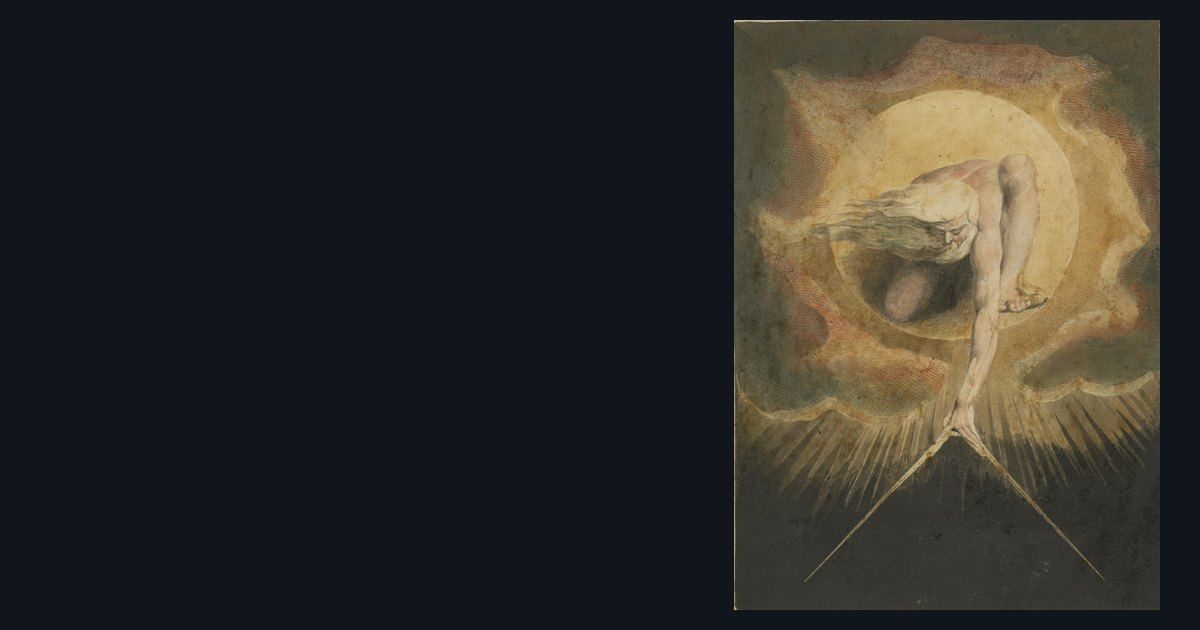
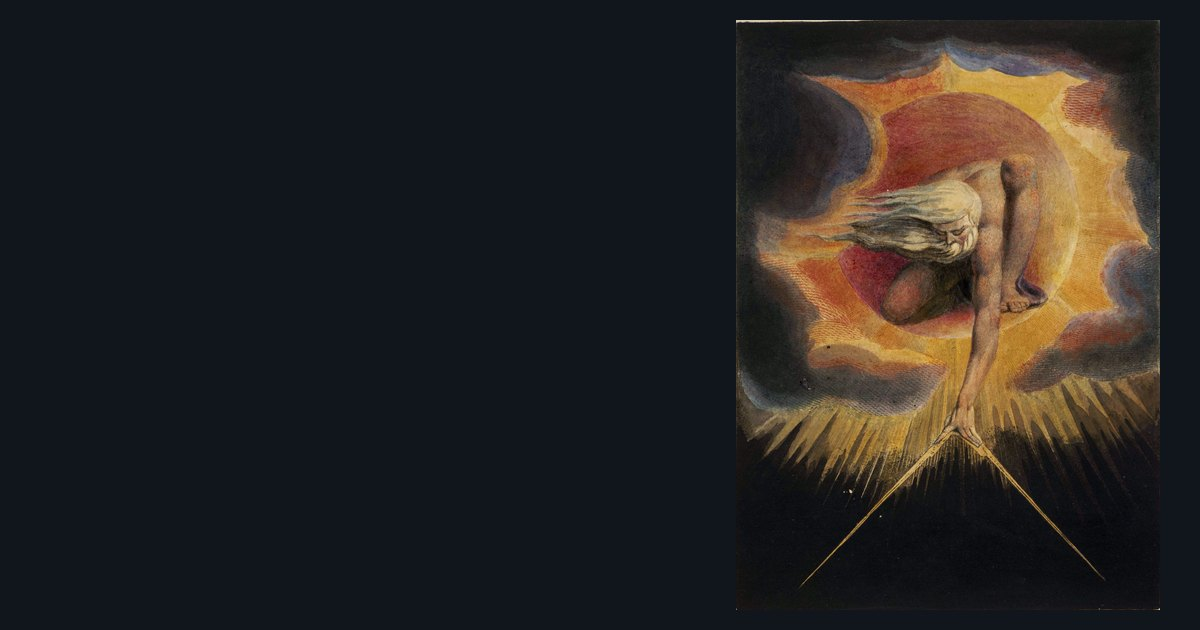
A new plate of The Ancient of Days, with rays and a slow light; contributions to the Albion Rose address
Claude-Session: https://claude.ai/code/session_01Uwzb4iqMdcXLJ8obVakqCr

Changed region(s): [[0.5858, 0.0302, 0.9867, 0.9952]]

diff --git a/index.html b/index.html
@@ -58,9 +58,13 @@ p{margin:0 0 1em;text-wrap:pretty}
 .hero .lead{margin:30px 0 0;font-size:clamp(18px,2vw,21px);line-height:1.55;color:rgba(255,248,230,.86);max-width:30em}
 .count{margin:22px 0 0;color:var(--leaf)}
 .count b{font:400 1.9em/1 var(--fell);letter-spacing:0;color:#fff8e6;margin-right:.3em;vertical-align:-.08em;font-variant-numeric:lining-nums}
-figure.plate{margin:0;justify-self:end;width:min(100%,430px)}
+figure.plate{margin:0;justify-self:end;width:min(100%,470px)}
 .plate .mount{background:#1b1510;padding:10px;box-shadow:0 30px 70px rgba(0,0,0,.55),0 0 0 1px rgba(224,189,98,.38);transform:perspective(1200px) rotateX(var(--rx,0deg)) rotateY(var(--ry,0deg));transition:transform .5s cubic-bezier(.2,.7,.2,1);will-change:transform}
-.plate img{display:block;width:100%;height:auto;aspect-ratio:1530/2118;background:#241d14}
+.plate img{display:block;width:100%;height:auto;aspect-ratio:1432/1988;background:#241d14}
+.plate .mount{position:relative}
+.plate .mount::after{content:"";position:absolute;inset:10px;pointer-events:none;background:radial-gradient(42% 30% at 55% 32%,rgba(255,226,150,.30),rgba(255,226,150,0) 70%);mix-blend-mode:screen;animation:breathe 9s ease-in-out infinite}
+.plate .mount::before{content:"";position:absolute;inset:5px;pointer-events:none;border:1px solid rgba(224,189,98,.55)}
+@keyframes breathe{0%,100%{opacity:.25}50%{opacity:1}}
 .plate figcaption{margin-top:14px;font-size:13px;line-height:1.45;color:rgba(241,223,174,.66)}
 .rise{opacity:0;transform:translateY(14px);animation:rise 1.1s cubic-bezier(.2,.7,.2,1) forwards}
 .rise.d1{animation-delay:.15s}.rise.d2{animation-delay:.35s}.rise.d3{animation-delay:.6s}.rise.d4{animation-delay:.85s}
@@ -132,7 +136,7 @@ footer.awake .wrap{text-shadow:0 1px 7px rgba(16,22,28,.95),0 0 2px rgba(16,22,2
   .sayings li{grid-template-columns:clamp(34px,9vw,56px) minmax(0,1fr)}.sayings li p{grid-column:2}
   .days,.else{grid-template-columns:1fr}
 }
-@media (prefers-reduced-motion:reduce){.rise,.seen{opacity:1;transform:none;animation:none;transition:none}.rule{animation:none}.plate .mount{transition:none;transform:none}html{scroll-behavior:auto}}
+@media (prefers-reduced-motion:reduce){.plate .mount::after{animation:none;opacity:.6}.rise,.seen{opacity:1;transform:none;animation:none;transition:none}.rule{animation:none}.plate .mount{transition:none;transform:none}html{scroll-behavior:auto}}
 </style>
 </head>
 <body>
@@ -151,8 +155,8 @@ footer.awake .wrap{text-shadow:0 1px 7px rgba(16,22,28,.95),0 0 2px rgba(16,22,2
         <p class="caps count rise d4" id="count" hidden><b id="n"></b>days to 12 August 2027</p>
       </div>
       <figure class="plate rise d2" id="plate">
-        <div class="mount"><img id="aod" src="img/ancient-of-days.jpg" srcset="img/ancient-of-days-640.jpg 640w, img/ancient-of-days.jpg 1100w" sizes="(max-width:820px) 360px, 430px" width="1530" height="2118" alt="An old man with white hair streaming in the wind kneels inside a golden sun and reaches down into the dark with a pair of open compasses." fetchpriority="high"></div>
-        <figcaption>“The Ancient of Days”, frontispiece to <i>Europe a Prophecy</i>, 1794. Library of Congress, Lessing J. Rosenwald Collection.</figcaption>
+        <div class="mount"><img id="aod" src="img/ancient-of-days.jpg?v=2" srcset="img/ancient-of-days-640.jpg?v=2 640w, img/ancient-of-days.jpg?v=2 1200w" sizes="(max-width:820px) 340px, 470px" width="1432" height="1988" alt="An old man with white hair streaming in the wind kneels inside a golden sun and reaches down into the dark with a pair of open compasses." fetchpriority="high"></div>
+        <figcaption>“The Ancient of Days”, frontispiece to <i>Europe a Prophecy</i>, 1794.</figcaption>
       </figure>
     </div>
   </div>
@@ -208,7 +212,8 @@ From Single vision &amp; Newtons sleep<cite>Letter to Thomas Butts · 1802</cite
       <a class="btn" href="https://youtube.com/live/-uytVu5M7rU" target="_blank" rel="noopener">The livestream ↗</a>
     </article>
   </div>
-  <p class="after">Contributions are welcome from the arts, the humanities, complexity science, computation, and anywhere between them. To offer one, write to <a href="mailto:info@honami.co.uk?subject=William%20Blake%202027">info@honami.co.uk</a>.</p>
+  <p class="after">Contributions are welcome from the arts, the humanities, complexity science, computation, and anywhere between them. To offer one, write to <a href="mailto:hello@albionrose.ai?subject=Blake%20200">hello@albionrose.ai</a>.</p>
+
 </div></section>
 
 <section id="elsewhere"><div class="wrap">
@@ -225,7 +230,7 @@ From Single vision &amp; Newtons sleep<cite>Letter to Thomas Butts · 1802</cite
     <li><a href="https://www.tate.org.uk/art/artists/william-blake-39" target="_blank" rel="noopener">Tate</a><span>Paintings, prints and drawings in the Tate collection.</span></li>
     <li><a href="https://fitzmuseum.cam.ac.uk/" target="_blank" rel="noopener">The Fitzwilliam Museum</a><span>Illuminated books, prints and drawings in Cambridge.</span></li>
     <li><a href="https://www.britishmuseum.org/" target="_blank" rel="noopener">The British Museum</a><span>Prints, drawings and illuminated books in London.</span></li>
-    <li><a href="https://www.loc.gov/collections/lessing-j-rosenwald/about-this-collection/" target="_blank" rel="noopener">Library of Congress</a><span>The Lessing J. Rosenwald Collection, from which the plate above is taken.</span></li>
+    <li><a href="https://www.loc.gov/collections/lessing-j-rosenwald/about-this-collection/" target="_blank" rel="noopener">Library of Congress</a><span>The Lessing J. Rosenwald Collection, with Blake’s illuminated books online.</span></li>
     <li><a href="https://britishart.yale.edu/" target="_blank" rel="noopener">Yale Center for British Art</a><span>Illuminated books, prints and drawings in New Haven.</span></li>
     <li><a href="https://www.huntington.org/" target="_blank" rel="noopener">The Huntington</a><span>Illuminated books, paintings and drawings in San Marino, California.</span></li>
     <li><a href="https://zoamorphosis.com/" target="_blank" rel="noopener">Zoamorphosis</a><span>The William Blake blog: Blake in art, music and culture now.</span></li>
@@ -277,7 +282,7 @@ From Single vision &amp; Newtons sleep<cite>Letter to Thomas Butts · 1802</cite
   // The compasses in the plate are carried out across the page: their two legs run on as hairlines, and arcs are struck between them.
   var cv=document.getElementById('rays'),box=document.getElementById('top'),img=document.getElementById('aod'),mount=img.parentNode,g=cv.getContext('2d');
   var still=window.matchMedia('(prefers-reduced-motion: reduce)').matches,W=0,H=0,dpr=1,t0=performance.now(),on=true,raf=0;
-  var APEX=[.523,.683],LEFT=[.166,.951],RIGHT=[.864,.947],SUN=[.528,.327];
+  var APEX=[.512,.689],LEFT=[.160,.943],RIGHT=[.865,.931],SUN=[.552,.320];
   var motes=[];for(var i=0;i<26;i++)motes.push({a:Math.random()*6.283,r:Math.random(),s:.25+Math.random()*.6,z:.5+Math.random()});
   function size(){dpr=Math.min(2,window.devicePixelRatio||1);var r=box.getBoundingClientRect();W=r.width;H=r.height;cv.width=Math.round(W*dpr);cv.height=Math.round(H*dpr);if(still)frame(performance.now()+9e4)}
   function pt(p,r,b){return [r.left-b.left+p[0]*r.width,r.top-b.top+p[1]*r.height]}
@@ -287,6 +292,8 @@ From Single vision &amp; Newtons sleep<cite>Letter to Thomas Butts · 1802</cite
     var A=pt(APEX,r,b),L=pt(LEFT,r,b),R=pt(RIGHT,r,b),S=pt(SUN,r,b),grow=Math.min(1,Math.max(0,(T-.9)/3.2)),e=grow*grow*(3-2*grow),far=Math.hypot(W,H);
     // light from the sun in the plate
     var sg=g.createRadialGradient(S[0],S[1],r.width*.2,S[0],S[1],r.width*1.55);sg.addColorStop(0,'rgba(224,189,98,'+(.085+.02*Math.sin(T*.5))+')');sg.addColorStop(1,'rgba(224,189,98,0)');g.fillStyle=sg;g.fillRect(0,0,W,H);
+    // rays from the sun in the plate, very faint, turning slowly
+    for(var q=0;q<40;q++){var an=q/40*6.2832+T*.012,wv=.5+.5*Math.sin(q*2.7+T*.21)*Math.sin(q*1.3-T*.13),r0=r.width*.78,r1=r.width*(1.25+.75*wv);var rg=g.createLinearGradient(S[0]+Math.cos(an)*r0,S[1]+Math.sin(an)*r0,S[0]+Math.cos(an)*r1,S[1]+Math.sin(an)*r1);rg.addColorStop(0,'rgba(241,205,120,'+(.10*wv*e)+')');rg.addColorStop(1,'rgba(241,205,120,0)');g.strokeStyle=rg;g.lineWidth=1;g.beginPath();g.moveTo(S[0]+Math.cos(an)*r0,S[1]+Math.sin(an)*r0);g.lineTo(S[0]+Math.cos(an)*r1,S[1]+Math.sin(an)*r1);g.stroke()}
     // the two legs, carried on past the plate's edge
     [L,R].forEach(function(P){var dx=P[0]-A[0],dy=P[1]-A[1],m=Math.hypot(dx,dy);dx/=m;dy/=m;var len=m+(far-m)*e;var lg=g.createLinearGradient(P[0],P[1],A[0]+dx*far,A[1]+dy*far);lg.addColorStop(0,'rgba(241,223,174,.5)');lg.addColorStop(.5,'rgba(224,189,98,.2)');lg.addColorStop(1,'rgba(224,189,98,0)');g.strokeStyle=lg;g.lineWidth=1;g.beginPath();g.moveTo(P[0],P[1]);g.lineTo(A[0]+dx*len,A[1]+dy*len);g.stroke()});
     // arcs struck from the hinge, between the legs

diff --git a/README.md b/README.md
@@ -3,7 +3,7 @@
 The holding page at https://www.williamblake.ai: William Blake, read beside the science of minds and machines. An independent project by Alexander Sabine, in preparation for 12 August 2027.
 
 - `index.html` is the whole page: styles, words and the small script that carries the compasses out across the header.
-- `img/` holds the plate (Library of Congress, Lessing J. Rosenwald Collection), the share card and the mark.
+- `img/` holds the plate (“The Ancient of Days”, supplied by the owner), the share card and the mark.
 - Served by GitHub Pages from `main`. `CNAME` sets the address.
 
 Blake's works are in the public domain. Everything else is (c) 2026 Alexander Sabine, all rights reserved. See `LICENSE`.
